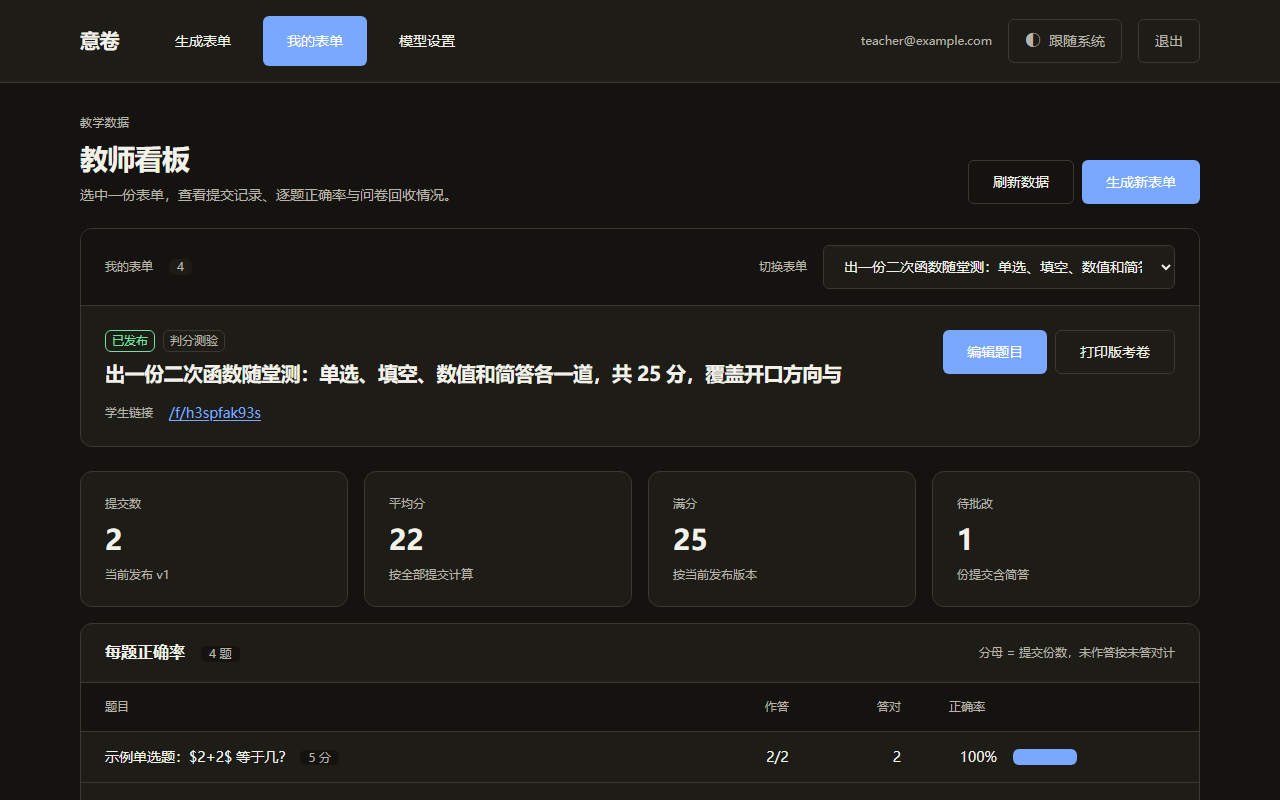
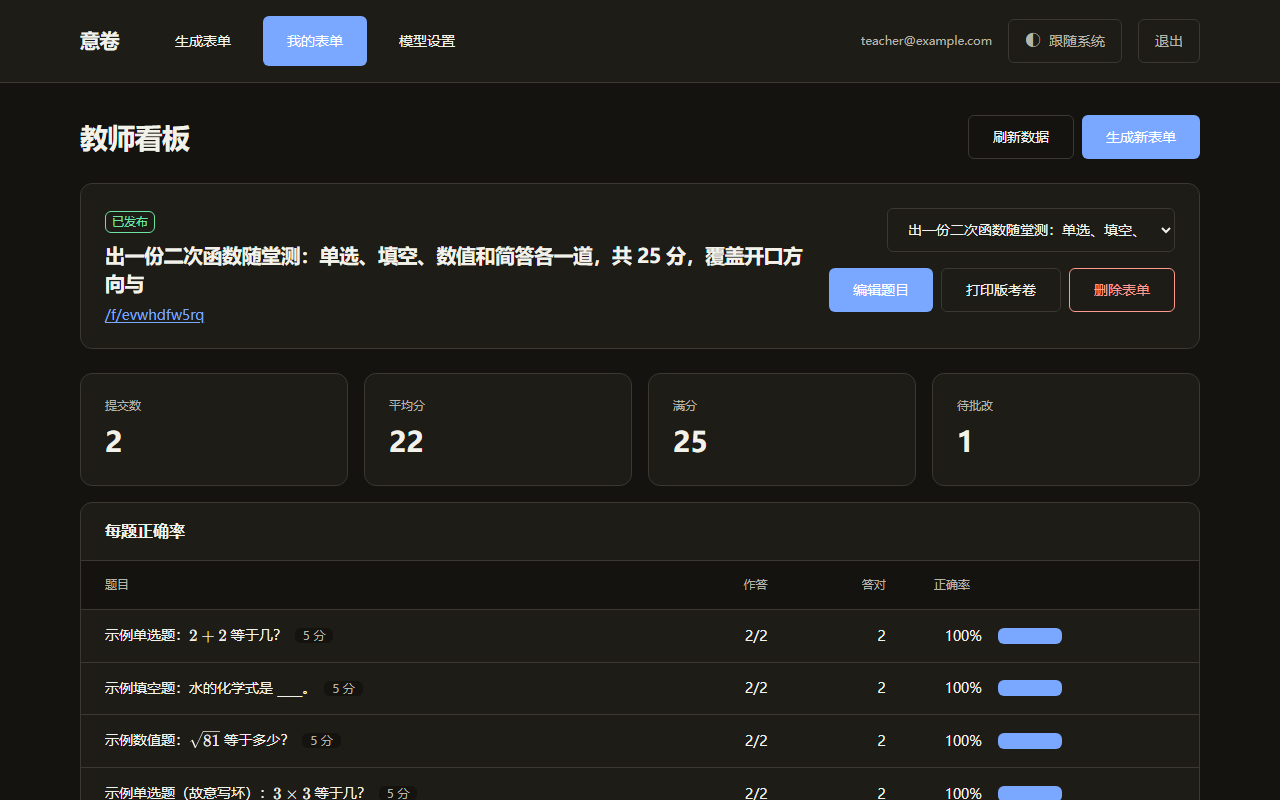
test(evidence): 重跑看板改版与删除表单的浏览器闭环 [P29]
闭环增至 20 步 / 33 个产物：第 6 步额外断言逐题正确率行渲染 KaTeX 且没有裸美元符号；第 20 步覆盖删除的就地二次确认、取消保留、确认后看板移除与学生短链 404。截图全部由同一次生产构建生成。

diff --git a/docs/evidence/README.md b/docs/evidence/README.md
@@ -8,7 +8,7 @@
 
 | 证据 | 在哪 | 能证明什么 | 不能证明什么 |
 |---|---|---|---|
-| `node scripts/verify.mjs`（VC1–VC17） | 本仓库，随时可跑 | 在没有浏览器的情况下，HTTP 语义层面的闭环成立：快照隔离、版本冲突拒绝、学生端零泄漏、生成→发布→提交→看板的数据一致、简答待批与教师批改后的终分、逐题正确率的分母与零提交口径、缺槽位追问与补答在事件流里的落点、蓝图自洽与 plan 阶段只在有蓝图时出现、覆盖矩阵实际计数与空单元格、收集页问卷的回收统计与 CSV、答案解析开关的默认关闭与开启后回看、单题建议只落在目标题且答案改动进新版本、历史提交仍按自己的快照判分、通用 JSON Patch 越界不写库且撤销后可按 LIFO 重做、补题按知识点×层级回候选且不写库、AI 辅助评分默认关闭且只回建议不落分、模型运行设置登录后可改且 Key 只回 `hasApiKey` | 不能证明界面能用、按钮点了有反应 |
+| `node scripts/verify.mjs`（VC1–VC18） | 本仓库，随时可跑 | 在没有浏览器的情况下，HTTP 语义层面的闭环成立：快照隔离、版本冲突拒绝、学生端零泄漏、生成→发布→提交→看板的数据一致、简答待批与教师批改后的终分、逐题正确率的分母与零提交口径、缺槽位追问与补答在事件流里的落点、蓝图自洽与 plan 阶段只在有蓝图时出现、覆盖矩阵实际计数与空单元格、收集页问卷的回收统计与 CSV、答案解析开关的默认关闭与开启后回看、单题建议只落在目标题且答案改动进新版本、历史提交仍按自己的快照判分、通用 JSON Patch 越界不写库且撤销后可按 LIFO 重做、补题按知识点×层级回候选且不写库、AI 辅助评分默认关闭且只回建议不落分、模型运行设置登录后可改且 Key 只回 `hasApiKey`、删除表单后列表/详情/学生短链/提交统计同时下线且重复删除 404 | 不能证明界面能用、按钮点了有反应 |
 | `node scripts/browser-closed-loop.mjs` | 本仓库，需要本机 Chrome | 真浏览器里点完这条链，每一步的截图落盘；包含登录优先、蓝图/预览就地编辑、批改面板贴着题目、网页改模型模式与 Key | 不能证明别的机器环境一致；它依赖 `LLM_MODE=mock` 的确定性 |
 
 `verify.mjs` 里跑的是**服务端真逻辑**（真 SQLite、真 HTTP、真判分），不是打桩。
@@ -22,7 +22,7 @@
 
 ```bash
 pnpm install                      # 一次性
-node scripts/verify.mjs           # 期望：VC1..VC17 全部通过，exit 0
+node scripts/verify.mjs           # 期望：VC1..VC18 全部通过，exit 0
 node scripts/browser-closed-loop.mjs   # 期望：每步截图进本目录 + stdout 打 JSON 摘要
 ```
 
@@ -40,11 +40,11 @@ node scripts/browser-closed-loop.mjs   # 期望：每步截图进本目录 + std
 | 项 | 值 |
 |---|---|
 | commit | `git log -1 -- docs/evidence/07-dashboard.png` 指向的提交（本次运行改动的教师看板截图；`01-login.png` 与上次字节一致，不随每次运行产生新提交） |
-| 时间 | 2026-11-05 15:04（Asia/Shanghai） |
+| 时间 | 2026-11-05 15:18（Asia/Shanghai） |
 | 浏览器 | Chrome 156.0.8078.80（headless=new，CDP 驱动） |
 | 服务 | `LLM_MODE=mock`；`NODE_ENV=production` 的同源 Node 服务托管 `web/dist`，端口临时分配 |
-| 结果 | 19 步全绿：**未登录打开 `/dashboard` 先显示登录表单且地址不改写，登录后回到看板** → 生成（需求 → **蓝图卡可就地改标题、四档难度和题型和一致 → 按蓝图生成**，时间线出现 plan 与蓝图对照；**预览卡「编辑这题」就地改第一题题干，收起后立即显示新文案**）→ **保存草稿（生成页只落草稿，不发布）→ 编辑器发布（发布内容沿用改过的预览）** → 学生页作答 → 提交 `20 / 25` → 看板新增 1 行、每题正确率全 `100%` 且覆盖矩阵渲染 → 教师批改后 `24 / 25`（**批改面板就在被点那行的下一行，不是页面底部**）→ 编辑器一句话改、撤销再重做 → 含糊需求触发 3 条追问，跳过追问后仍走蓝图确认 → **生成页选「问卷」→ 保存草稿 → 编辑器发布 → 手机填写 → 回收看板（无均分/满分/`0/0`）→ CSV** → **打印版考卷（含答案开关、打印媒体隐藏外壳，`Page.printToPDF` 出 PDF）** → **答案解析开关（教师开启后学生重交，成功页出现正确答案与解析）** → **暗色模式（系统深色自动生效、三态循环、浅/深底色实测）** → **关掉「先看蓝图」开关后直接生成（无蓝图卡、时间线不出现 plan）** → **单题编辑（选中第一道题改正确项、diff 只列本题、保存后其余题逐字节不变；单题建议标题为「仅第 1 题」、采用后仍停在本题）** → **覆盖矩阵补题（点单元格进编辑页、模型回一道候选题、加入草稿并保存；再点另一格走手动模板）** → **AI 辅助评分（逐表单开启后，批改面板出现按钮，点一下只回建议分与理由，不自动保存）** → **模型设置（网页切模式、填端点/模型/Key，保存后 API 与页面都不回显 Key；留空再保存仍保留原 Key）** → **参考试卷（粘贴文本 → 蓝图卡出现参考回执，难度输入改了题型和同步变化；mock 下搜索回执为未启用，`plan` 响应带 `styleNotes` 且不回显原文）**；首页响应头含 `script-src 'self'` 与 `style-src-attr 'unsafe-inline'` |
-| 截图与产物 | `01-login.png` … `31-plan-reference.png` 共 30 张截图 + `16-print-sheet.pdf`，全部同一次生产构建运行 |
+| 结果 | 20 步全绿：**未登录打开 `/dashboard` 先显示登录表单且地址不改写，登录后回到看板** → 生成（需求 → **蓝图卡可就地改标题、四档难度和题型和一致 → 按蓝图生成**，时间线出现 plan 与蓝图对照；**预览卡「编辑这题」就地改第一题题干，收起后立即显示新文案**）→ **保存草稿（生成页只落草稿，不发布）→ 编辑器发布（发布内容沿用改过的预览）** → 学生页作答 → 提交 `20 / 25` → 看板新增 1 行、每题正确率全 `100%` 且覆盖矩阵渲染 → 教师批改后 `24 / 25`（**批改面板就在被点那行的下一行，不是页面底部**）→ 编辑器一句话改、撤销再重做 → 含糊需求触发 3 条追问，跳过追问后仍走蓝图确认 → **生成页选「问卷」→ 保存草稿 → 编辑器发布 → 手机填写 → 回收看板（无均分/满分/`0/0`）→ CSV** → **打印版考卷（含答案开关、打印媒体隐藏外壳，`Page.printToPDF` 出 PDF）** → **答案解析开关（教师开启后学生重交，成功页出现正确答案与解析）** → **暗色模式（系统深色自动生效、三态循环、浅/深底色实测）** → **关掉「先看蓝图」开关后直接生成（无蓝图卡、时间线不出现 plan）** → **单题编辑（选中第一道题改正确项、diff 只列本题、保存后其余题逐字节不变；单题建议标题为「仅第 1 题」、采用后仍停在本题）** → **覆盖矩阵补题（点单元格进编辑页、模型回一道候选题、加入草稿并保存；再点另一格走手动模板）** → **AI 辅助评分（逐表单开启后，批改面板出现按钮，点一下只回建议分与理由，不自动保存）** → **模型设置（网页切模式、填端点/模型/Key，保存后 API 与页面都不回显 Key；留空再保存仍保留原 Key）** → **参考试卷（粘贴文本 → 蓝图卡出现参考回执，难度输入改了题型和同步变化；mock 下搜索回执为未启用，`plan` 响应带 `styleNotes` 且不回显原文）** → **删除表单（点「删除表单」先出就地二次确认，点「取消」保留表单；再确认后看板下拉与页面文案都不再出现该表单，学生短链 404）**；首页响应头含 `script-src 'self'` 与 `style-src-attr 'unsafe-inline'` |
+| 截图与产物 | `01-login.png` … `33-deleted.png` 共 32 张截图 + `16-print-sheet.pdf`，全部同一次生产构建运行 |
 
 第 1 步是「登录优先」的界面级证据：匿名打开 `/dashboard` 时页面显示登录表单，但地址保持
 `/dashboard`（登录后回到原来要去的地方；登录页不改写地址，避免把人送去一个无关的首页）。
@@ -164,6 +164,14 @@ R-08 的 CSP 响应头断言已进入闭环脚本；受限 Windows 环境下 Chr
 设置项移到数据之后，闭合了「打开看板先看到开关而不是学生数据」的错位。所有既有
 `data-testid` 与口径文案（`提交数`、`（已开启）`、无数据时的 `—`、逐题表第四格只有
 百分比）保持原样；闭环第 12、17、18 步仍能点到开关与批改按钮。
+
+**2026-11-05 15:18 那轮的改动（P29 去冗余文案、公式渲染与删除表单）**：看板删除页头副标题、
+卡片徽标、注释与说明段落，改用布局、层级、间距与主操作本身表达结构；所有闭环依赖的
+`data-testid` 与字面量原样保留。每题正确率、提交记录与批改面板的题干与答案改用
+`MathText`，闭环第 6 步断言逐题行内出现 `.katex` 且首个单元格不再有裸 `$`。表单卡新增
+「删除表单」：就地二次确认，取消不删，确认后调用 `DELETE /api/forms/:id`，从下拉与页面
+移除并回到无选中态；第 20 步同时断言学生短链 404。删除落成 `form_deletions` 墓碑——版本行
+是追加式历史证据，不能物理删。
 
 **2026-10-27 23:38 那轮的改动**：
 1. mock 脚本的简答从「无分值」改成 5 分（R-01）：没有这道带分值的简答，
